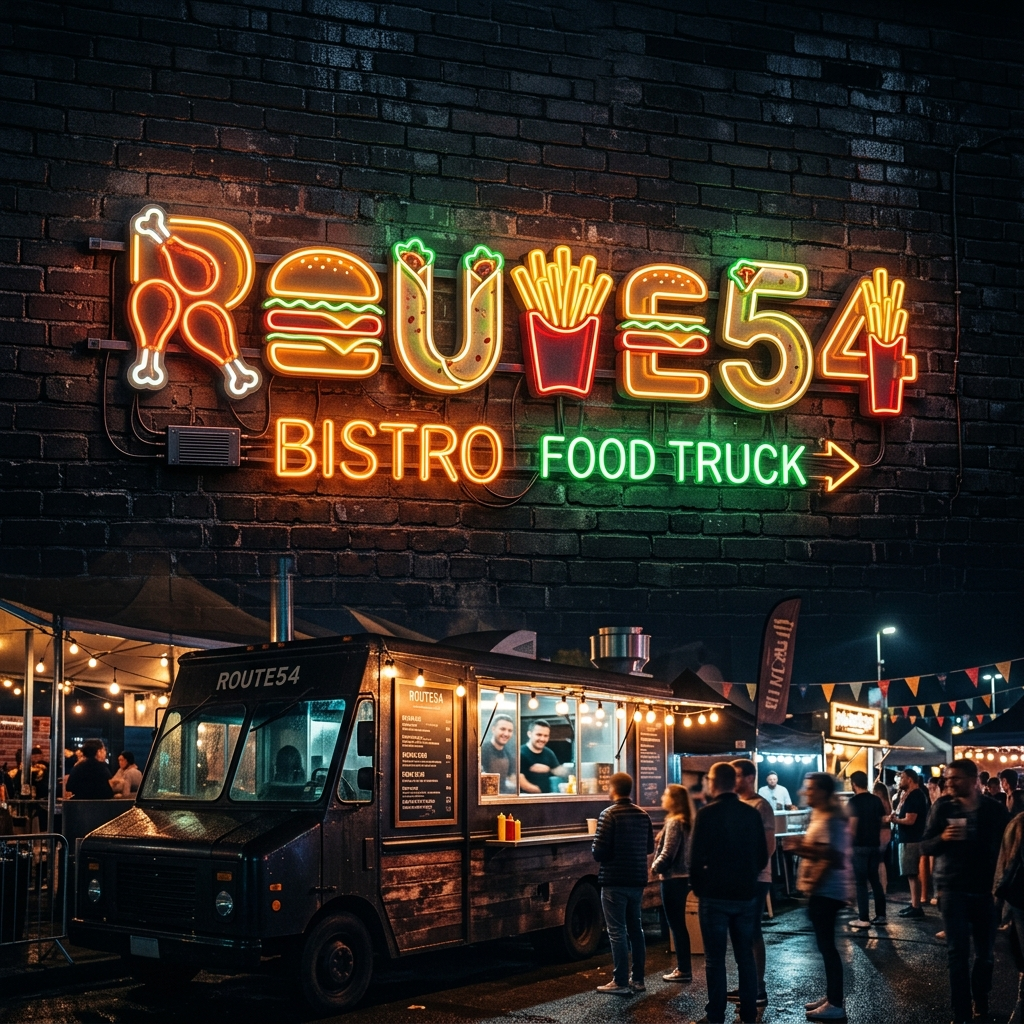
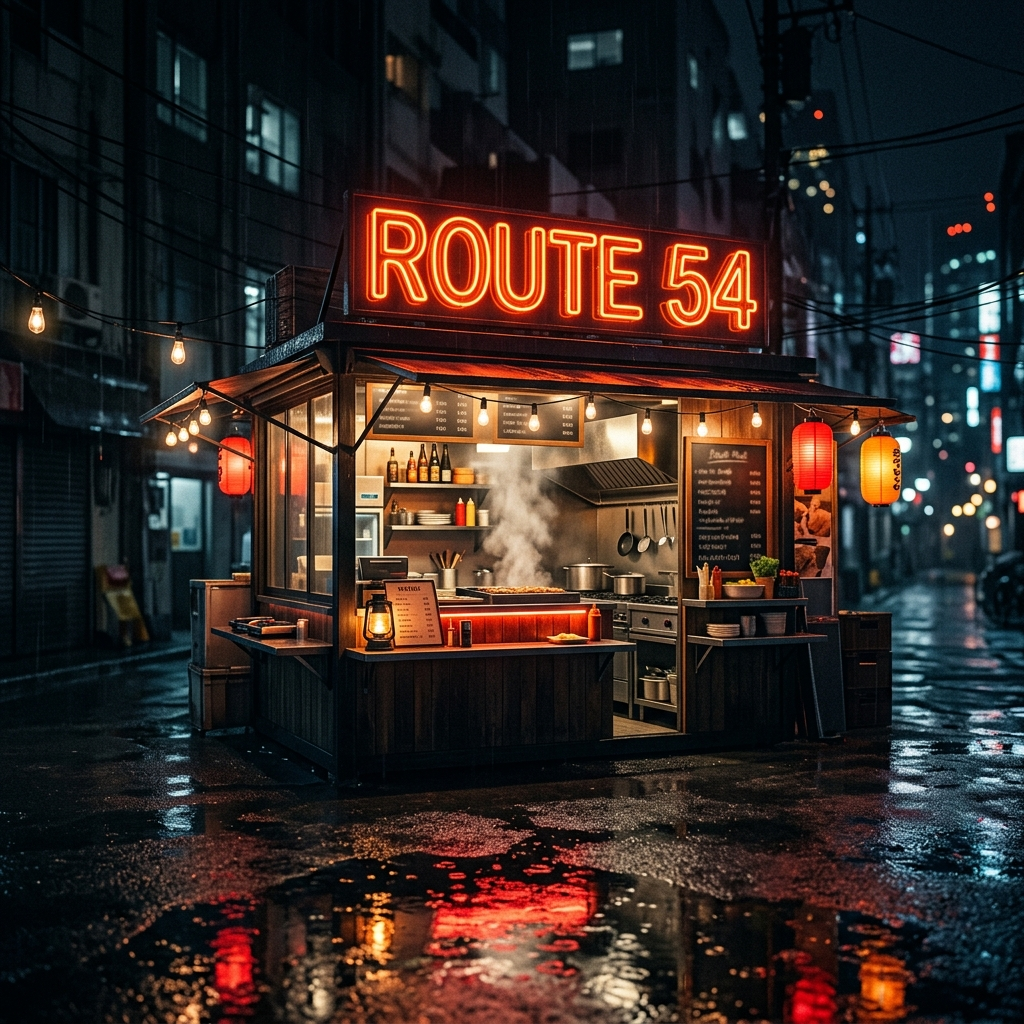
Fix: order close bug (snake_case normalize), admin tab layout, reports auto-load, new hero image without people

diff --git a/app.js b/app.js
@@ -54,20 +54,37 @@ document.addEventListener('DOMContentLoaded', async () => {
   await fetchInitialData();
 });
 
+// Normalize a DB row (snake_case) to camelCase for frontend use
+function normalizeOrder(o) {
+  return {
+    id:            o.id,
+    customerName:  o.customer_name  ?? o.customerName  ?? '',
+    items:         typeof o.items === 'string' ? JSON.parse(o.items) : (o.items || []),
+    total:         o.total          ?? 0,
+    paymentMethod: o.payment_method ?? o.paymentMethod ?? 'cash',
+    status:        o.status         ?? 'pending',
+    date:          o.date           ?? '',
+    timestamp:     o.timestamp      ?? Date.now(),
+    waitTime:      o.wait_time      ?? o.waitTime ?? 0,
+  };
+}
+
 async function fetchInitialData() {
   try {
     const [menuRes, ordersRes, settingsRes] = await Promise.all([
       fetch('/api/menu'), fetch('/api/orders'), fetch('/api/settings')
     ]);
     if (menuRes.ok) APP_DATA.menu = await menuRes.json();
-    if (ordersRes.ok) APP_DATA.orders = await ordersRes.json();
+    if (ordersRes.ok) {
+      const raw = await ordersRes.json();
+      APP_DATA.orders = raw.map(normalizeOrder);
+    }
     if (settingsRes.ok) {
       const s = await settingsRes.json();
       if (Object.keys(s).length > 0) APP_DATA.settings = { ...APP_DATA.settings, ...s };
     }
   } catch (err) {
     console.error("Fetch failed (maybe running static without backend).", err);
-    // Fallback data if needed...
   }
   
   if (isAdminLoggedIn) {
@@ -80,7 +97,7 @@ async function fetchInitialData() {
 // SOCKET LISTENERS (REAL-TIME)
 // ============================================================
 socket.on('order_added', (order) => {
-  APP_DATA.orders.unshift(order); // Add to front
+  APP_DATA.orders.unshift(normalizeOrder(order));
   if (isAdminLoggedIn) renderOrders();
 });
 
@@ -479,7 +496,12 @@ function showAdminTab(tab) {
 
   if (tab === 'active' || tab === 'closed') renderOrders();
   if (tab === 'menu') renderMenuAdmin();
-  if (tab === 'reports') generateReport();
+  if (tab === 'reports') {
+    // Ensure date is always set before generating report
+    const rd = document.getElementById('reportDate');
+    if (rd && !rd.value) rd.value = getTodayStr();
+    generateReport();
+  }
   if (tab === 'settings') loadSettingsForm();
 }
 
@@ -566,11 +588,12 @@ function closeOrder(orderId) {
   // Emit to server
   socket.emit('update_order_status', { orderId, status: 'closed' });
   
-  // Optimistic
+  // Optimistic update in local state
   const o = APP_DATA.orders.find(x => x.id === orderId);
   if (o) o.status = 'closed';
   
-  showToast('Order closed! ✅', 'success');
+  showToast('Order closed! ✅ Check Closed tab', 'success');
+  // Re-render active tab to remove it, keeping current tab
   renderOrders();
 }
 
@@ -651,10 +674,20 @@ function deleteMenuItem(itemId) {
 // ADMIN: REPORTS
 // ============================================================
 function generateReport() {
-  const dateStr = document.getElementById('reportDate')?.value || getTodayStr();
-  const orders  = APP_DATA.orders.filter(o => o.date === dateStr && o.status === 'closed');
+  const rdEl   = document.getElementById('reportDate');
+  if (rdEl && !rdEl.value) rdEl.value = getTodayStr();
+  const dateStr = rdEl?.value || getTodayStr();
 
-  const revenue  = orders.reduce((s, o) => s + o.total, 0);
+  // Normalize order date — DB may store as 'YYYY-MM-DD' or as a timestamp number
+  const normDate = (o) => {
+    if (!o.date) return new Date(o.timestamp).toISOString().split('T')[0];
+    if (/^\d+$/.test(String(o.date))) return new Date(Number(o.date)).toISOString().split('T')[0];
+    return o.date;
+  };
+
+  const orders = APP_DATA.orders.filter(o => normDate(o) === dateStr && o.status === 'closed');
+
+  const revenue  = orders.reduce((s, o) => s + Number(o.total), 0);
   const vegCount = orders.filter(o => o.items.some(i => APP_DATA.menu.find(m => m.id === i.id)?.category === 'veg')).length;
 
   document.getElementById('rTotalOrders').textContent  = orders.length;
@@ -665,36 +698,40 @@ function generateReport() {
   // Top items
   const itemCounts = {};
   orders.forEach(o => o.items.forEach(i => {
-    if (!itemCounts[i.name]) itemCounts[i.name] = { name: i.name, emoji: i.emoji, count: 0 };
+    if (!itemCounts[i.name]) itemCounts[i.name] = { name: i.name, emoji: i.emoji || '🍽️', count: 0 };
     itemCounts[i.name].count += i.qty;
   }));
-  const top = Object.values(itemCounts).sort((a, b) => b.count - a.count).slice(0, 5);
+  const top  = Object.values(itemCounts).sort((a, b) => b.count - a.count).slice(0, 5);
   const maxC = top[0]?.count || 1;
   const topEl = document.getElementById('topItemsList');
-  topEl.innerHTML = top.length === 0
-    ? `<p class="empty-hint">No orders for this date.</p>`
-    : top.map((item, i) => `
-      <div class="top-item-row">
-        <span class="top-item-rank">#${i+1}</span>
-        <span>${item.emoji}</span>
-        <span class="top-item-name">${escHtml(item.name)}</span>
-        <span class="top-item-count">${item.count}x</span>
-      </div>
-      <div class="top-item-bar" style="width:${Math.round((item.count/maxC)*100)}%"></div>
-    `).join('');
+  if (topEl) {
+    topEl.innerHTML = top.length === 0
+      ? `<p class="empty-hint">No orders for ${dateStr}.</p>`
+      : top.map((item, i) => `
+        <div class="top-item-row">
+          <span class="top-item-rank">#${i+1}</span>
+          <span>${item.emoji}</span>
+          <span class="top-item-name">${escHtml(item.name)}</span>
+          <span class="top-item-count">${item.count}x</span>
+        </div>
+        <div class="top-item-bar" style="width:${Math.round((item.count/maxC)*100)}%"></div>
+      `).join('');
+  }
 
-  // Order list
+  // Order breakdown list
   const listEl = document.getElementById('reportOrdersList');
-  listEl.innerHTML = orders.length === 0
-    ? `<p class="empty-hint">No closed orders for this date.</p>`
-    : orders.map(o => `
-      <div class="report-order-row">
-        <span class="report-order-id">${o.id}</span>
-        <span class="report-order-name">${escHtml(o.customerName)}</span>
-        <span class="report-order-pay">${o.paymentMethod === 'cash' ? '💵' : '📱'}</span>
-        <span class="report-order-total">${formatCurrency(o.total)}</span>
-      </div>`
-    ).join('');
+  if (listEl) {
+    listEl.innerHTML = orders.length === 0
+      ? `<p class="empty-hint">No closed orders for ${dateStr}.</p>`
+      : orders.map(o => `
+        <div class="report-order-row">
+          <span class="report-order-id">${o.id}</span>
+          <span class="report-order-name">${escHtml(o.customerName)}</span>
+          <span class="report-order-pay">${o.paymentMethod === 'cash' ? '💵' : '📱'}</span>
+          <span class="report-order-total">${formatCurrency(Number(o.total))}</span>
+        </div>`
+      ).join('');
+  }
 }
 
 function downloadReport() {

diff --git a/style.css b/style.css
@@ -888,25 +888,34 @@ body {
 
 /* Admin Content */
 .admin-content {
-  flex: 1 1 0; overflow-y: auto;
+  flex: 1 1 0;
+  overflow: hidden;  /* NO global scroll — each tab scrolls internally */
+  position: relative;
+}
+.admin-content::-webkit-scrollbar { display: none; }
+
+/* Admin Tabs */
+.admin-tab {
+  position: absolute; inset: 0;
+  overflow-y: auto;
   -webkit-overflow-scrolling: touch;
   overscroll-behavior: contain;
   padding: 14px;
   padding-bottom: calc(20px + var(--safe-bottom));
-  scrollbar-width: thin; scrollbar-color: var(--border) transparent;
+  scrollbar-width: thin;
+  scrollbar-color: var(--border) transparent;
+  animation: fadeInUp 0.25s ease both;
 }
-.admin-content::-webkit-scrollbar { width: 4px; }
-.admin-content::-webkit-scrollbar-thumb { background: var(--border); }
-
-/* Admin Tabs */
-.admin-tab { animation: fadeInUp 0.3s ease both; }
+.admin-tab.hidden {
+  display: none !important;
+}
 
 /* Stats */
 .stats-row {
-  display: grid; grid-template-columns: repeat(2, 1fr);
-  gap: 10px; margin-bottom: 16px;
+  display: grid; grid-template-columns: repeat(3, 1fr);
+  gap: 8px; margin-bottom: 14px;
 }
-@media (min-width: 480px) { .stats-row { grid-template-columns: repeat(4, 1fr); } }
+@media (min-width: 480px) { .stats-row { grid-template-columns: repeat(3, 1fr); } }
 
 .stat-card {
   display: flex; align-items: center; gap: 10px; padding: 14px;
@@ -1044,7 +1053,7 @@ body {
 
 /* Reports */
 .report-filter-card { margin-bottom: 14px; }
-.report-orders-list { display: flex; flex-direction: column; gap: 5px; max-height: 300px; overflow-y: auto; }
+.report-orders-list { display: flex; flex-direction: column; gap: 5px; }
 .report-order-row {
   display: flex; align-items: center; gap: 8px; padding: 7px 0;
   border-bottom: 1px solid rgba(255,255,255,0.04);